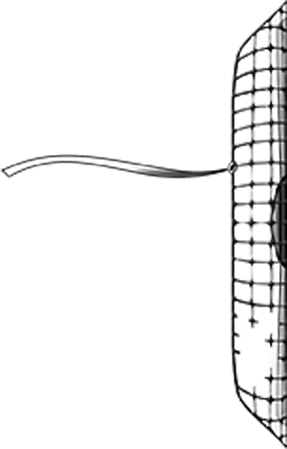
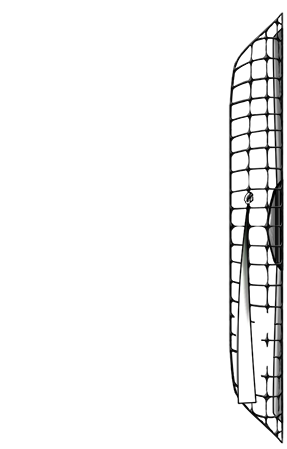
Added AC animation

Changed region(s): [[0.0, 0.0, 1.0, 1.0]]

diff --git a/FireFly/FireFly/ForceZone.cpp b/FireFly/FireFly/ForceZone.cpp
@@ -1,10 +1,16 @@
 #include "ForceZone.h"
 
+// Temp hack to decrease force to the left
+// If needed somewhere else than room 2 change this to a more generic one
 
 ForceZone::ForceZone(sf::FloatRect rect)
-	: mRigidbody()
+	: mActivated(true)
+	, mRigidbody()
 	, mBodiesInTheZone()
 	, mForce()
+	, mb2Position(Rigidbody::SfToBoxVec(rect.left, rect.top))
+	, mb2Width(Rigidbody::SfToBoxFloat(rect.width))
+	, mb2Height(Rigidbody::SfToBoxFloat(rect.height))
 {
 	mRigidbody.AddTriggerBoxBody(rect);
 	mRigidbody.getBody()->SetUserData(this);
@@ -17,10 +23,29 @@ void ForceZone::start()
 		mForce = b2Vec2(getPropertyFloat("xForce"), getPropertyFloat("yForce"));
 }
 
+void ForceZone::sendMessage(Entity* sender, string message)
+{
+	if (message == "Activate")
+		mActivated = true;
+	
+	if (message == "Deactivate")
+		mActivated = false;
+}
+
 void ForceZone::updateEntity(sf::Time dt)
 {
+	if (!mActivated)
+		return;
+
 	for (b2Body* body : mBodiesInTheZone)
-		body->ApplyForceToCenter(mForce, true);
+	{
+		//mb2Position
+		float xRatioFromSource = 1.f - (mb2Position.x + mb2Width - body->GetPosition().x ) / mb2Width;
+		
+		
+		//b2Vec2 force = mForce
+		body->ApplyForceToCenter(xRatioFromSource*mForce, true);
+	}
 }
 
 void ForceZone::drawEntity(sf::RenderTarget& target, sf::RenderStates states) const

diff --git a/FireFly/FireFly/Myra.cpp b/FireFly/FireFly/Myra.cpp
@@ -65,6 +65,7 @@ void Myra::updateEntity(sf::Time dt)
 		setPosition(mPos + SPEED * dt.asSeconds());
 		mMoveForward = true;
 	}
+
 	
 	if (!mDroppedInBoiler)
 	{
@@ -78,20 +79,17 @@ void Myra::updateEntity(sf::Time dt)
 
 		if (mZidDroppedSugar && mDroppedSugarZid.getElapsedTime().asSeconds() < TIME_CHECKING_OUT_SUGAR)
 		{
+			
+				
+
 			// Check if dropped in boiler
 			if (mZid->getDroppedSugar().y > 3000 && 3600 < mZid->getDroppedSugar().x && mZid->getDroppedSugar().x < 4400)
 				mDroppedInBoiler = true;
-
-
-			// Skriv ut cords
-			static int counter = 0;
-			if (counter == 0)
-				cout << "(" << mZid->getDroppedSugar().x << ", " << mZid->getDroppedSugar().y << ")\n";
-			counter = (counter + 1) % 1000;
+						
 
 			// Go towards sugar //
 			float distanceSqr = (mZid->getDroppedSugar() - this->getPosition()).getLengthSqr();
-			if ( distanceSqr > MIN_DISTANCE_TO_SUGAR_SQR)
+			if ( distanceSqr > MIN_DISTANCE_TO_SUGAR_SQR && mZid->getDroppedSugar().y > 3000 && mZid->getDroppedSugar().x < 4400)
 			{
 				const float check_dist_value = 1000.f;
 				sf::Vector2f leftPos = calcPosition(mPos - check_dist_value);

diff --git a/FireFly/FireFly/Level.cpp b/FireFly/FireFly/Level.cpp
@@ -24,6 +24,7 @@
 #include "Light.h"
 #include "AntPath.h"
 #include "Boiler.h"
+#include "Room2_AC.h"
 
 
 #include <iostream>
@@ -379,6 +380,16 @@ void Level::loadMap(string filename)
 			else if (entityType == "Room2_Fan")
 			{
 				Room2_Fan* fan = new Room2_Fan(imageSrc, positionSprite);
+				fan->setProperties(obj.getProperties());
+				eList.addEntity(fan, layer, false);
+			}
+
+			//
+			//	Room2_AC
+			//
+			else if (entityType == "Room2_AC")
+			{
+				Room2_AC* fan = new Room2_AC(imageSrc, positionSprite);
 				fan->setProperties(obj.getProperties());
 				eList.addEntity(fan, layer, false);
 			}

diff --git a/FireFly/FireFly/ForceZone.h b/FireFly/FireFly/ForceZone.h
@@ -11,12 +11,17 @@ private:
 	virtual void start();
 	virtual void updateEntity(sf::Time dt);	
 	virtual void drawEntity(sf::RenderTarget& target, sf::RenderStates states) const;
+	virtual void sendMessage(Entity* sender, string message);
 
 	virtual void BeginContact(b2Contact *contact, Entity* other); 
 	virtual void EndContact(b2Contact *contact, Entity* other); 
 
 private:
+	bool mActivated;
 	Rigidbody mRigidbody;
 	set<b2Body*> mBodiesInTheZone;
 	b2Vec2 mForce;
+	b2Vec2 mb2Position;
+	float mb2Width;
+	float mb2Height;
 };

diff --git a/FireFly/FireFly/AntPath.cpp b/FireFly/FireFly/AntPath.cpp
@@ -29,7 +29,7 @@ AntPath::AntPath(vector<sf::Vector2f> path)
 
 	
 	// Creates ants
-	for (int i = 0; i < 20; i++)
+	for (int i = 0; i < 17; i++)
 	{
 		Entity* myra = new Myra(i*200.f  ,mPath, mLengths, mDirections, mTotalLength);
 		EntityList::getEntityList().addEntity(myra, Layer::Background);

diff --git a/FireFly/FireFly/Zid.cpp b/FireFly/FireFly/Zid.cpp
@@ -16,7 +16,7 @@ const float SCALE = 1.f/2;
 // Sugar
 const float EMISSION_RATE = 5.f;
 const float SUGAR_GRAVITY = 120.f;
-const float LOSE_SUGAR_EMISSION = 220.f;
+const float LOSE_SUGAR_EMISSION = 300.f;
 const float LOSE_SUGAR_TIME = 0.6f;
 
 Zid::Zid(sf::Vector2f position)
